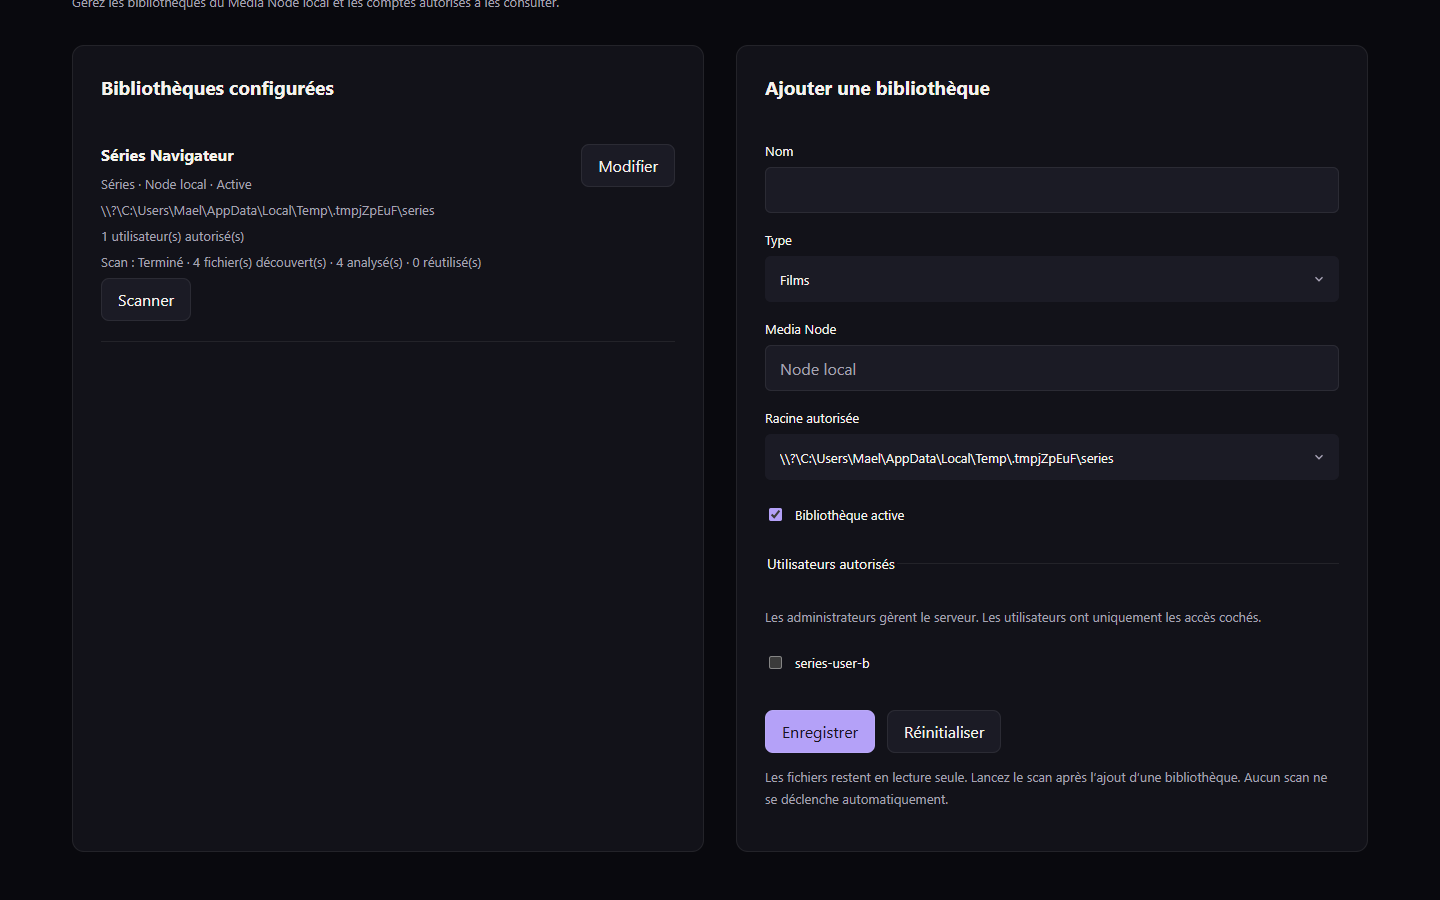
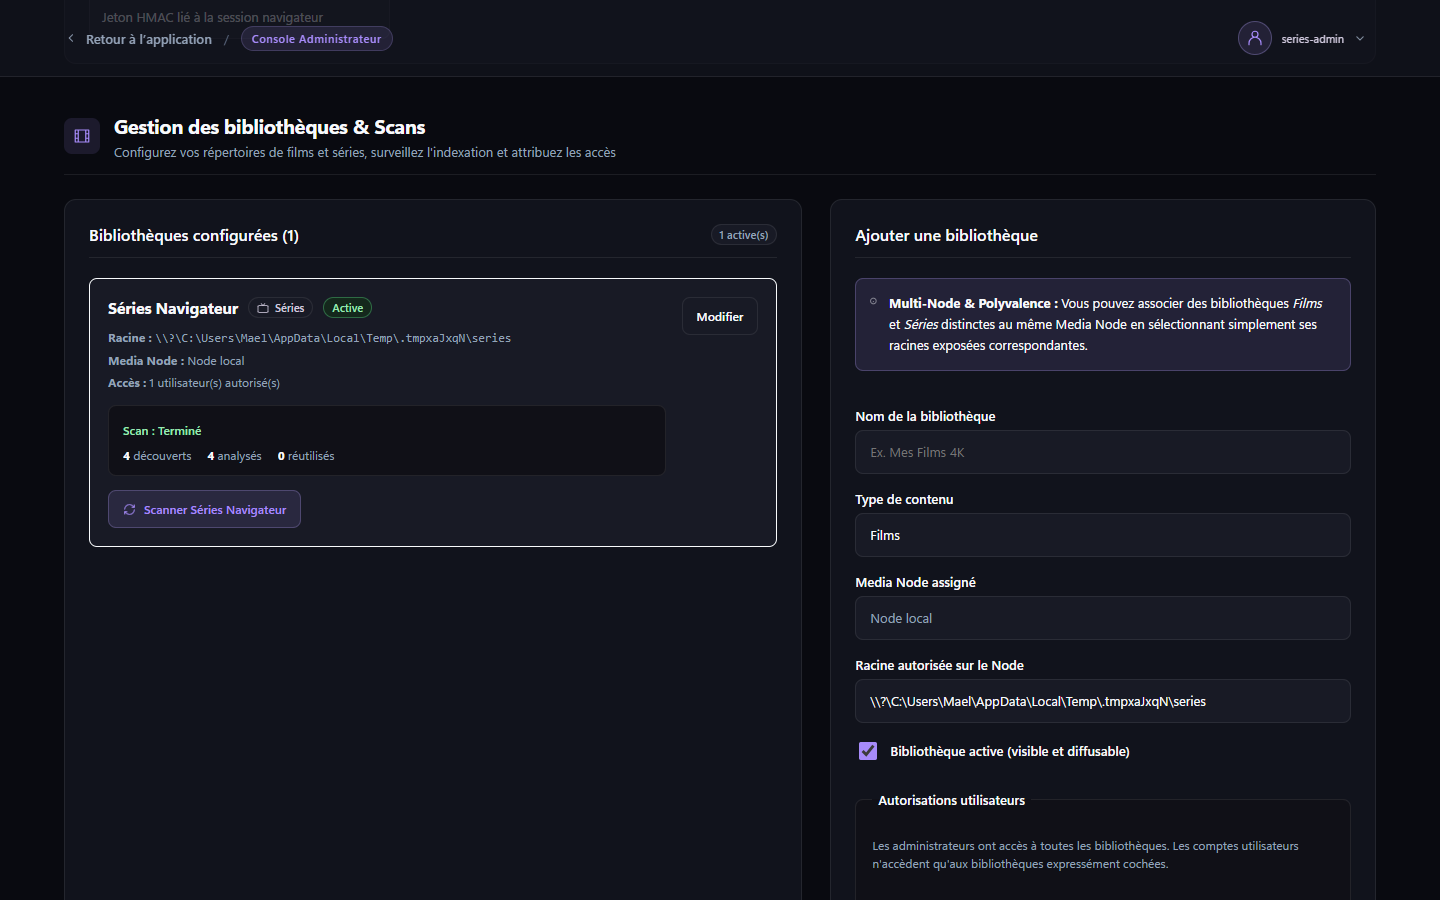
Refactor code structure for improved readability and maintainability

diff --git a/apps/web/src/lib/catalog/SeriesDetail.svelte b/apps/web/src/lib/catalog/SeriesDetail.svelte
@@ -11,6 +11,7 @@
     work,
     season = $bindable(1),
     media = [],
+    mediaError = '',
     immersive,
     launchingEpisodeId = null,
     onLaunchEpisode,
@@ -19,6 +20,7 @@
     work: Work;
     season: number;
     media: Media[];
+    mediaError?: string;
     immersive?: ImmersivePlayer;
     launchingEpisodeId?: string | null;
     onLaunchEpisode: (episode: Work, versionId: string) => Promise<void>;
@@ -97,6 +99,13 @@
               <strong>Média temporairement indisponible</strong>
               <p>Le Media Node propriétaire (<code>{work.nodeId ?? 'distant'}</code>) est actuellement hors ligne. L’œuvre reste indexée au catalogue et sera immédiatement lisible dès le retour du nœud.</p>
             </div>
+          </div>
+        {/if}
+
+        {#if mediaError}
+          <div class="error-banner" role="alert">
+            <Icon name="alert" size={18} />
+            <span>{mediaError}</span>
           </div>
         {/if}
 
@@ -491,6 +500,18 @@
     border: 1px dashed var(--color-line);
     color: var(--color-subtle);
     text-align: center;
+  }
+
+  .error-banner {
+    display: flex;
+    align-items: center;
+    gap: 10px;
+    padding: 12px 16px;
+    border-radius: var(--radius-sm);
+    background: rgba(248, 113, 113, 0.12);
+    border: 1px solid rgba(248, 113, 113, 0.25);
+    color: var(--color-danger);
+    font-size: 13px;
   }
 
   .empty-episodes-box p {

diff --git a/apps/web/src/lib/catalog/Catalog.svelte b/apps/web/src/lib/catalog/Catalog.svelte
@@ -436,6 +436,7 @@
         work={detail}
         bind:season
         {media}
+        {mediaError}
         {immersive}
         {launchingEpisodeId}
         onLaunchEpisode={launchEpisode}

diff --git a/MEMORY.md b/MEMORY.md
@@ -1,18 +1,23 @@
 # MEMORY.md — État et décisions Aether
 
-## 18 octobre 2026 — Correction CI navigateur : Synchronisation des sous-titres intégrés et répertoires de preuves (`browser-scanner.cjs`, `browser-series.cjs`, `browser_scanner.rs`, `browser_series.rs`)
+## 18 octobre 2026 — Correction CI navigateur : Synchronisation des sous-titres intégrés, alerte 403 Séries et répertoires de preuves (`browser-scanner.cjs`, `browser-series.cjs`, `browser_scanner.rs`, `browser_series.rs`, `SeriesDetail.svelte`, `Catalog.svelte`)
 
 - **Problème diagnostiqué** :
-  - Échec du test `browser_scanner_persists_and_plays_after_core_restart` sur GitHub Actions (Linux headless Chrome) avec un timeout de 30s à la ligne 129 de `scripts/browser-scanner.cjs`.
-  - Cause racine #1 : la position de lecture lors de la vérification de la piste de sous-titre forcé intégrée (`internal-4`, cue 2 de 4.0s à 5.0s) était fixée à exactement `v.currentTime = 4`. Sur les runners Linux sans accélération matérielle, la recherche (seek) dépose l'horloge média sur la trame vidéo immédiatement antérieure (ex. ~3.958s), située juste avant le début du cue. La vidéo étant en pause, le cue n'était jamais actif dans `activeCues`. Alignement appliqué sur `v.currentTime = 4.25` (standard utilisé dans `browser-p1.cjs`, `mse-checks.cjs`, `player-comparison-checks.cjs` et `remux-checks.cjs`), et vérification tolérante de la présence du texte dans l'ensemble des `activeCues`.
-  - Cause racine #2 : `scripts/browser-scanner.cjs` et `scripts/browser-series.cjs` écrivaient par défaut dans des sous-dossiers `2026-10-18/` lorsqu'aucune variable `MEDIA_REPORT_DIR` n'était fournie, alors que `.github/workflows/ci.yml` vérifie et archive strictement `docs/evidence/2026-10-16/scanner/` et `docs/evidence/2026-10-17/series/`.
+  - **Échec 1 (`browser_scanner`)** : timeout de 30s à la ligne 129 de `scripts/browser-scanner.cjs`. La position de lecture lors du test de la piste forcée intégrée (`internal-4`, cue 2 de 4.0s à 5.0s) était fixée à `v.currentTime = 4`. Sur les runners Linux sans accélération matérielle, la recherche (seek) dépose l'horloge sur la trame vidéo précédente (~3.958s). La vidéo étant en pause, le cue n'était jamais actif dans `activeCues`. Alignement appliqué sur `v.currentTime = 4.25` (standard utilisé dans `browser-p1.cjs`, `mse-checks.cjs`, `player-comparison-checks.cjs` et `remux-checks.cjs`), et vérification tolérante de la présence du texte dans l'ensemble des `activeCues`.
+  - **Échec 2 (`browser_series`)** : timeout de 30s à la ligne 152 de `scripts/browser-series.cjs` attendant `getByRole('alert')` contenant `/n’a pas accès à cette ressource/` lors de la simulation d'un HTTP 403. Lors de la refactorisation de `Catalog.svelte` extrayant `SeriesDetail.svelte`, la prop `mediaError` et son rendu `<div class="error-banner" role="alert">` avaient été conservés dans `FilmDetail.svelte` mais omis dans `SeriesDetail.svelte`. L'erreur levée par `revalidateMediaDescriptor` était capturée par `Catalog.svelte` mais jamais affichée dans la vue série.
+  - **Échec 3 (Archive CI)** : `scripts/browser-scanner.cjs` et `scripts/browser-series.cjs` écrivaient par défaut dans des sous-dossiers `2026-10-18/` lorsqu'aucune variable `MEDIA_REPORT_DIR` n'était fournie, alors que `.github/workflows/ci.yml` vérifie et archive strictement `docs/evidence/2026-10-16/scanner/` et `docs/evidence/2026-10-17/series/`.
 - **Corrections apportées** :
+  - `apps/web/src/lib/catalog/SeriesDetail.svelte` : ajout de la prop `mediaError`, affichage du bloc `<div class="error-banner" role="alert">` et styles associés.
+  - `apps/web/src/lib/catalog/Catalog.svelte` : transmission de `mediaError` à `<SeriesDetail {mediaError} ... />`.
   - `scripts/browser-scanner.cjs` : calage temporel `currentTime = 4.25` pour les sous-titres forcés et rétablissement du répertoire par défaut à `docs/evidence/2026-10-16/scanner`.
   - `scripts/browser-series.cjs` : rétablissement du répertoire par défaut à `docs/evidence/2026-10-17/series`.
   - `crates/core/tests/browser_scanner.rs` et `crates/core/tests/browser_series.rs` : propagation explicite de `MEDIA_REPORT_DIR` au processus Node si la variable d'environnement est définie.
 - **Validation** :
-  - `cargo test --locked --test browser_scanner -- --ignored --nocapture` : 100% réussi (les deux passes avec et sans redémarrage passent avec succès).
-  - Preuves générées et vérifiées dans `docs/evidence/2026-10-16/scanner/` (`scan.png`, `playback.png`, `playback-restart.png`, `report.json`, `report-restart.json`).
+  - `cargo test --locked --test browser_scanner -- --ignored --nocapture` : 100% réussi.
+  - `cargo test --locked --test browser_series -- --ignored --nocapture` : 100% réussi (`revokedPermission403`, `restoredPermissionPlayback`, `accountSwitchCacheIsolation`, `crossSeason`, etc.).
+  - Validation Python des preuves CI : toutes les assertions de présence et de succès passent (`report.json`, captures `.png`).
+  - `npm run check` (TypeScript/Svelte) : 0 erreur, 0 avertissement.
+  - `npm test` (vitest) : 48/48 tests réussis.
   - `cargo fmt --check` et `cargo clippy --all-targets -- -D warnings` : 0 erreur, 0 avertissement.
 
 ## 18 octobre 2026 — Refonte de l'appairage des Media Nodes (Initiation sortante, tokens éphémères, canal bidirectionnel NAT-proof et streaming relais)
